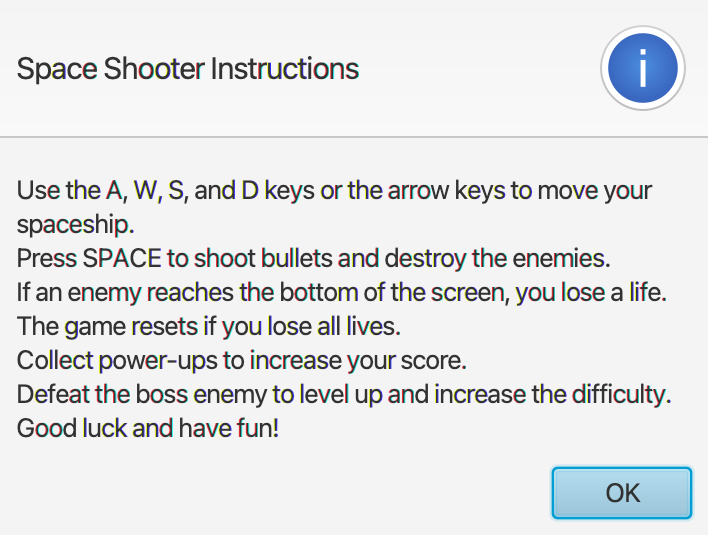
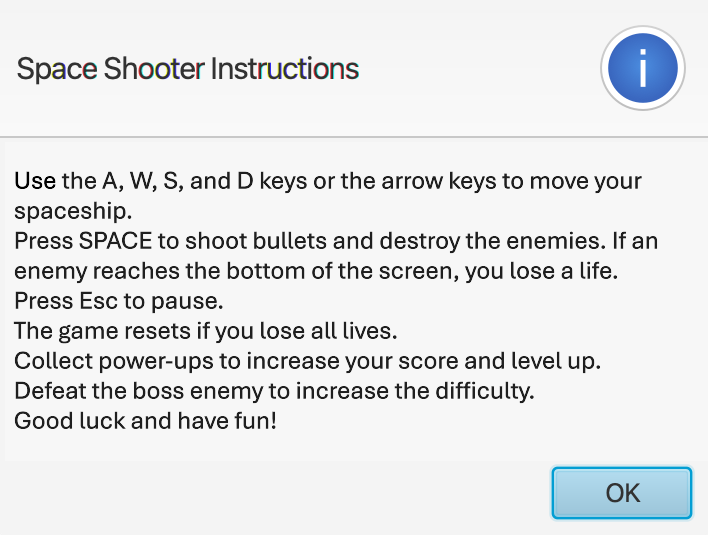
''

Changed region(s): [[0.0, 0.2991, 0.9633, 0.8374]]

diff --git a/src/entities/SpaceShooter.java b/src/entities/SpaceShooter.java
@@ -1,8 +1,6 @@
 package entities;
 
-import java.io.File;
 import java.io.IOException;
-import java.nio.file.Paths;
 import java.util.ArrayList;
 import java.util.List;
 import java.util.Random;
@@ -151,7 +149,7 @@ public class SpaceShooter extends Application {
     
     protected void gameupdate(double elapsedTime) {
         if (!gameOver) {
-            if (score == 2 && !bossExists) {
+            if (score!=0&&score %20 == 0 && !bossExists) {
                 spawnBossEnemy();
             }
             player.update();
@@ -479,11 +477,14 @@ private void showLosingScreen() throws IOException {
     }
 
     private void handleKeyPress(KeyEvent event) {
-        if (event.getCode() == KeyCode.LEFT)
-            player.setMoveLeft(true);
+        if (event.getCode() == KeyCode.LEFT) player.setMoveLeft(true);
         if (event.getCode() == KeyCode.RIGHT)player.setMoveRight(true);
         if (event.getCode() == KeyCode.UP)player.setMoveForward(true);
         if (event.getCode() == KeyCode.DOWN)player.setMoveBackward(true);
+        if (event.getCode() == KeyCode.A) player.setMoveLeft(true);
+        if (event.getCode() == KeyCode.D)player.setMoveRight(true);
+        if (event.getCode() == KeyCode.W)player.setMoveForward(true);
+        if (event.getCode() == KeyCode.S)player.setMoveBackward(true);
         if (event.getCode() == KeyCode.SPACE) { player.setShooting(true); }
         if (event.getCode() == KeyCode.ESCAPE) { if(gameRunning) pause(); }
     }
@@ -493,6 +494,10 @@ private void showLosingScreen() throws IOException {
         if (event.getCode() == KeyCode.RIGHT)player.setMoveRight(false);
         if (event.getCode() == KeyCode.UP)player.setMoveForward(false);
         if (event.getCode() == KeyCode.DOWN)player.setMoveBackward(false);
+        if (event.getCode() == KeyCode.A) player.setMoveLeft(false);
+        if (event.getCode() == KeyCode.D)player.setMoveRight(false);
+        if (event.getCode() == KeyCode.W)player.setMoveForward(false);
+        if (event.getCode() == KeyCode.S)player.setMoveBackward(false);
         if (event.getCode() == KeyCode.SPACE)player.setShooting(false);
     }
 }

diff --git a/src/entities/BossEnemy.java b/src/entities/BossEnemy.java
@@ -74,7 +74,7 @@ public class BossEnemy extends Enemy {
      */
     public BossEnemy(double x, double y) {
         super(x, y);
-        setHealth(10);
+        setHealth(50);
         setDead(false);
         phase = 0;
     }
@@ -119,13 +119,13 @@ public class BossEnemy extends Enemy {
      * @param newObjects list to which new bullets are added
      */
     public void shoot(List<EnemyBullet> newObjects) {
-        if (FireRate <= 0&&y<200) {
+        if (FireRate <= 0) {
             double angle = (new Random().nextInt(10)+10)/10;
             newObjects.add( new EnemyBullet(centerX() + new Random().nextInt(50)+50 * Math.cos(time*angle + Math.PI), centerY() + new Random().nextInt(50)+50 * Math.sin(time*angle + Math.PI)));
             newObjects.add(new EnemyBullet(centerX() + new Random().nextInt(50)+50 * Math.cos(time*angle + Math.PI / 2), centerY() + new Random().nextInt(50)+50 * Math.sin(time*angle + Math.PI / 2)));
             newObjects.add(new EnemyBullet(centerX() + new Random().nextInt(50)+50 * Math.cos(time*angle + Math.PI * 3 / 2), centerY() + new Random().nextInt(50)+50 * Math.sin(time*angle + Math.PI * 3 / 2)));
             newObjects.add(new EnemyBullet(centerX() + new Random().nextInt(50)+50 * Math.cos(time*angle), centerY() + new Random().nextInt(50)+50 * Math.sin(time*angle)));
-            FireRate = new Random().nextInt(50)+50;
+            FireRate = new Random().nextInt(50)+25;
         }
     }
 

diff --git a/src/entities/Player.java b/src/entities/Player.java
@@ -163,7 +163,7 @@ public class Player extends GameObject{
      */
     public Player(double x, double y) {
         super(x, y, WIDTH, HEIGHT);
-        setHealth(100);
+        setHealth(20);
         setDead(false);
         
     }
